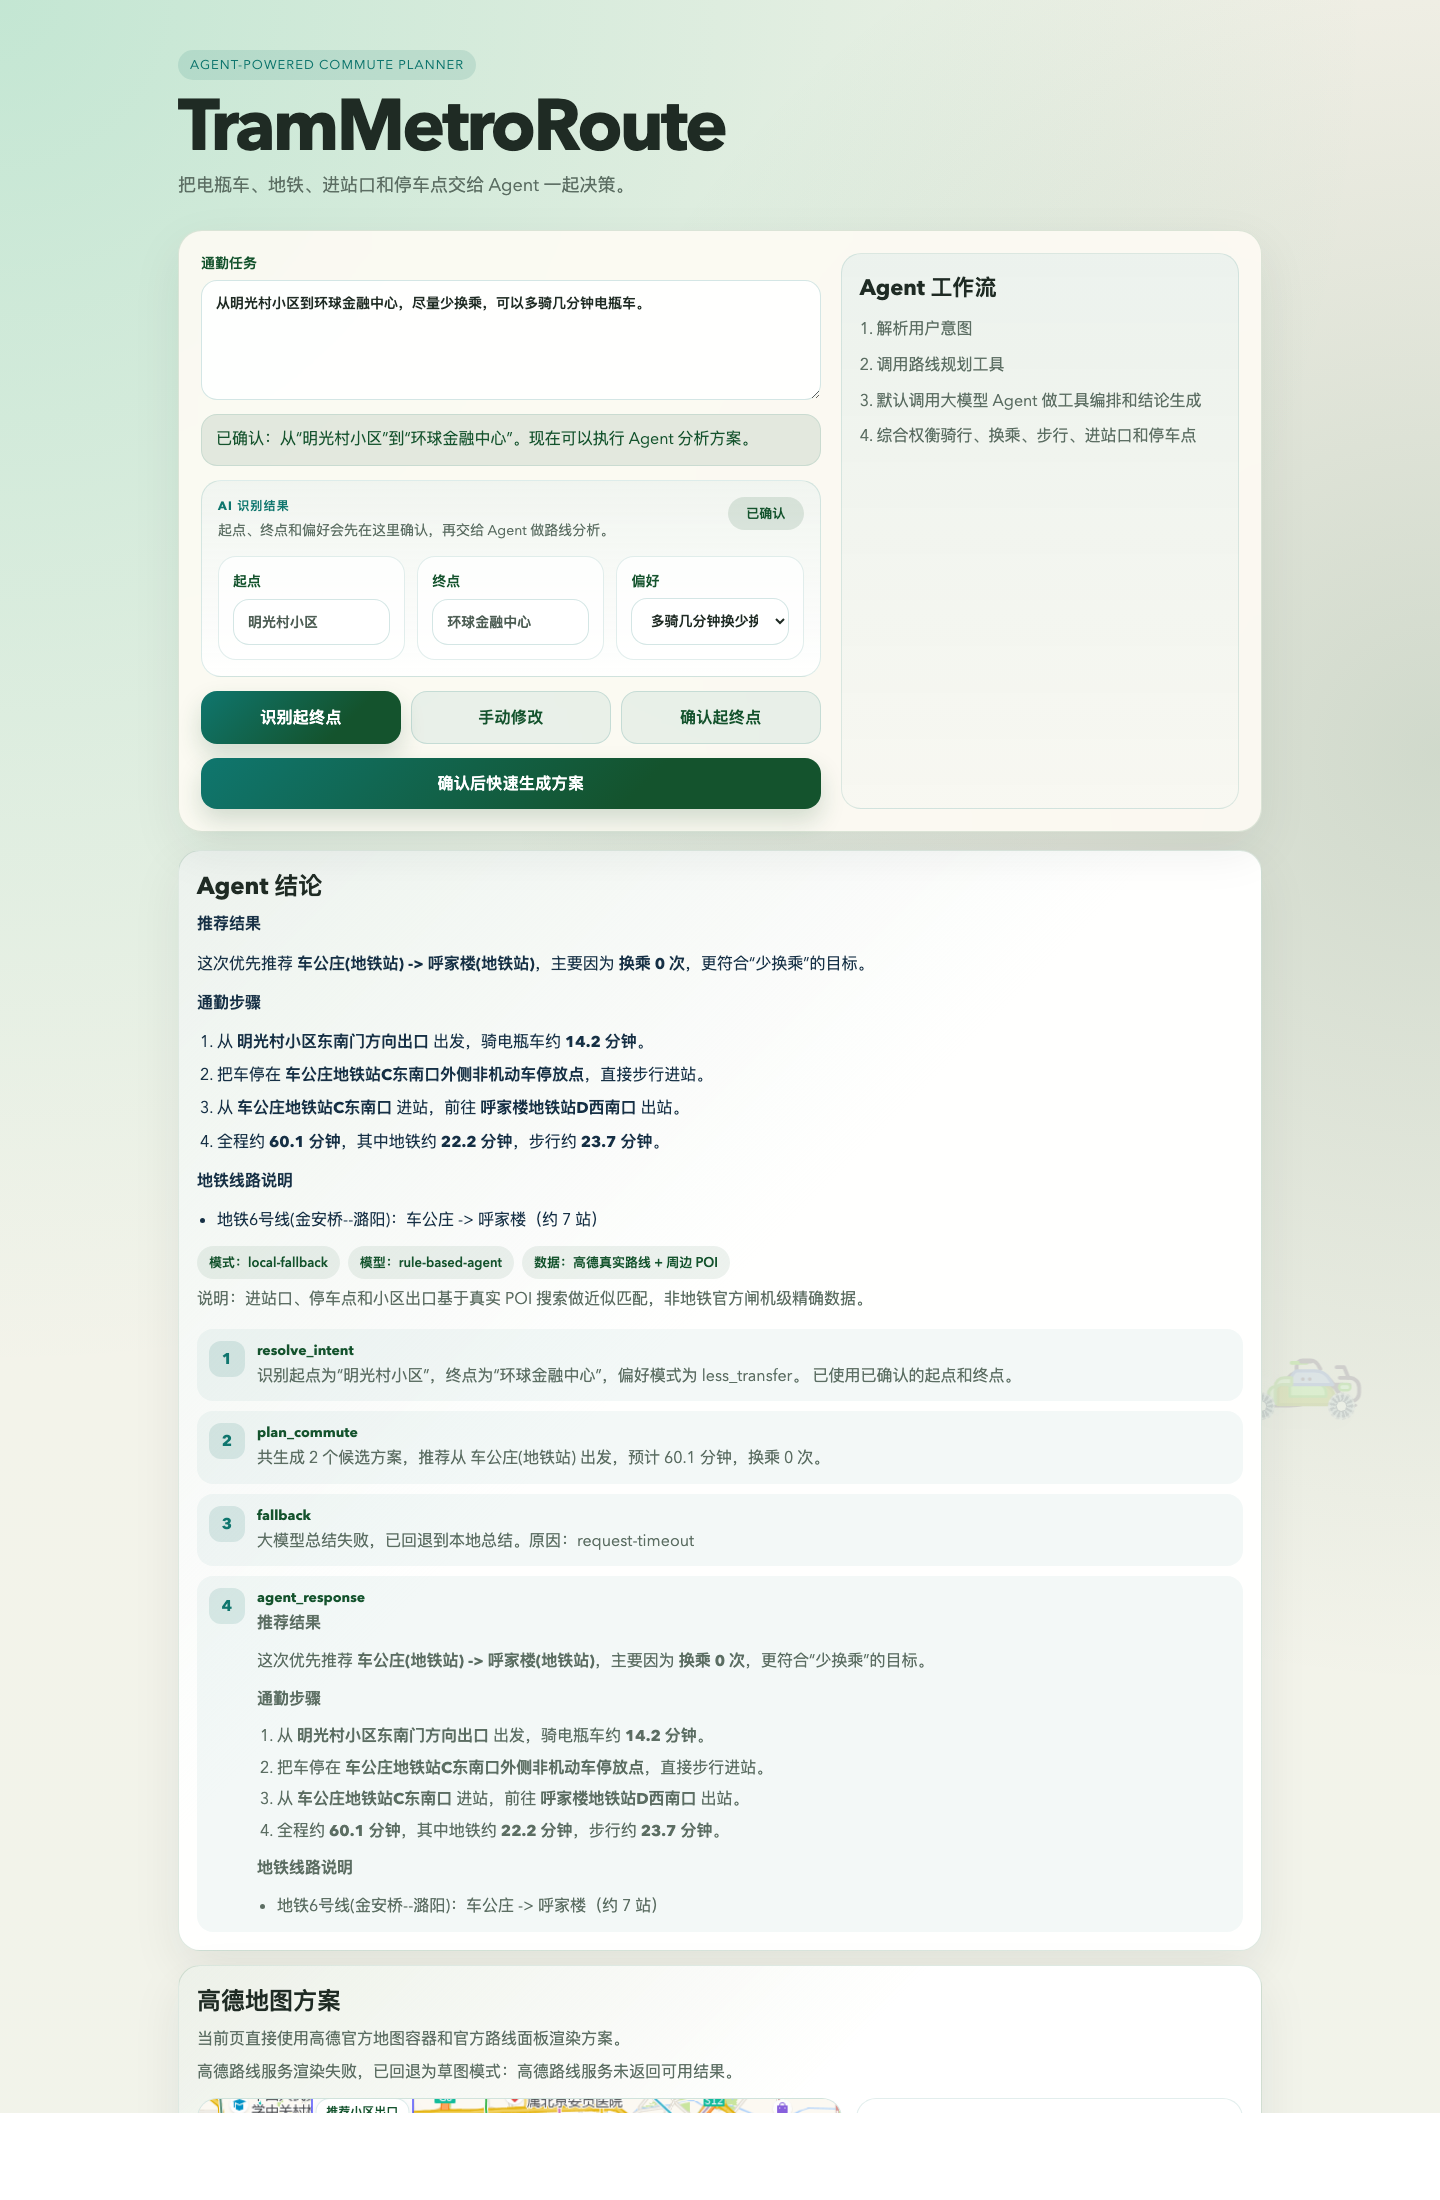
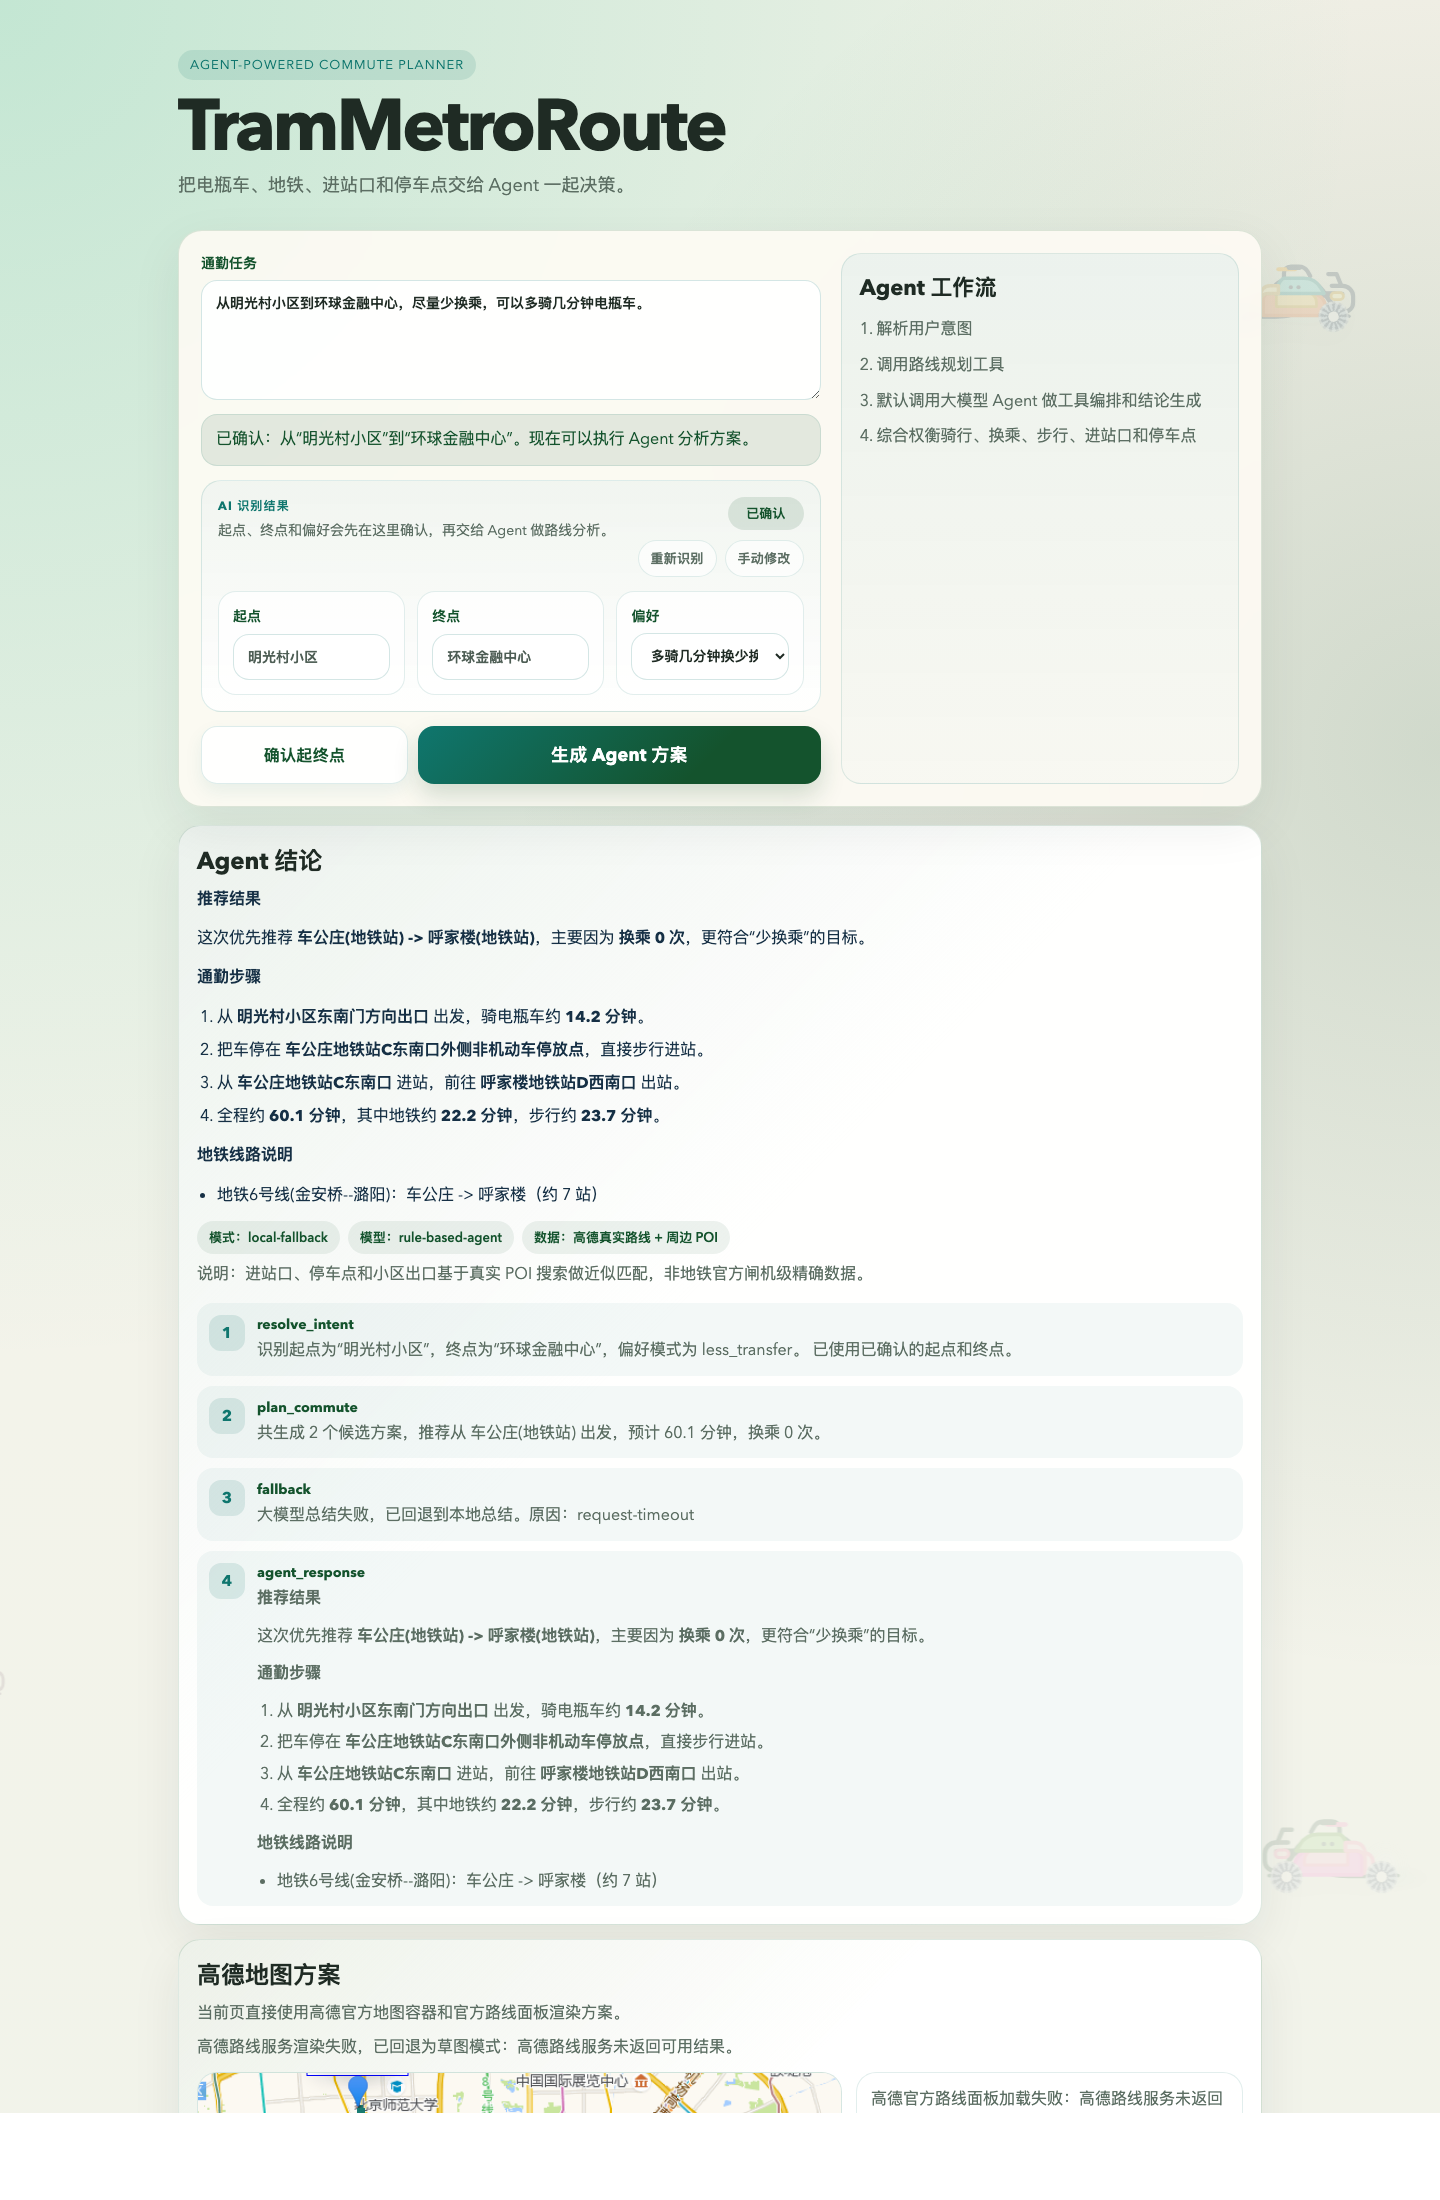
Refine planner actions and refresh README screenshot

diff --git a/public/styles.css b/public/styles.css
@@ -282,25 +282,72 @@ button {
   letter-spacing: 0.02em;
   cursor: pointer;
   box-shadow: 0 12px 24px rgba(20, 83, 45, 0.18);
+  transition:
+    transform 180ms ease,
+    box-shadow 180ms ease,
+    background 180ms ease,
+    border-color 180ms ease,
+    color 180ms ease;
+}
+
+button:hover:not(:disabled) {
+  transform: translateY(-1px);
+  box-shadow: 0 16px 28px rgba(20, 83, 45, 0.2);
 }
 
 button:disabled {
   cursor: not-allowed;
   opacity: 0.5;
   box-shadow: none;
+  transform: none;
 }
 
 .secondary-button {
-  background: rgba(15, 118, 110, 0.08);
+  background: rgba(255, 255, 255, 0.9);
   color: var(--accent-strong);
-  border: 1px solid rgba(15, 118, 110, 0.16);
-  box-shadow: none;
+  border: 1px solid rgba(15, 118, 110, 0.14);
+  box-shadow: 0 8px 18px rgba(15, 118, 110, 0.08);
 }
 
 .action-row {
   display: grid;
-  grid-template-columns: repeat(3, minmax(0, 1fr));
+  grid-template-columns: repeat(2, minmax(0, 1fr));
   gap: 10px;
+  align-items: center;
+}
+
+.action-row-primary {
+  grid-template-columns: minmax(180px, 0.72fr) minmax(0, 1.4fr);
+}
+
+#submitButton {
+  min-height: 58px;
+  font-size: 18px;
+  letter-spacing: 0.01em;
+}
+
+#confirmButton {
+  min-height: 58px;
+}
+
+.ghost-button {
+  width: auto;
+  min-width: auto;
+  padding: 8px 12px;
+  border: 1px solid rgba(15, 118, 110, 0.12);
+  border-radius: 999px;
+  background: rgba(255, 255, 255, 0.62);
+  color: var(--muted);
+  box-shadow: none;
+  font-size: 13px;
+  font-weight: 600;
+}
+
+.ghost-button:hover:not(:disabled) {
+  color: var(--accent-strong);
+  border-color: rgba(15, 118, 110, 0.2);
+  background: rgba(255, 255, 255, 0.9);
+  box-shadow: 0 10px 18px rgba(15, 118, 110, 0.08);
 }
 
 .intent-status {
@@ -350,6 +397,12 @@ button:disabled {
   gap: 12px;
 }
 
+.intent-shell-meta {
+  display: grid;
+  justify-items: end;
+  gap: 10px;
+}
+
 .intent-shell-kicker {
   font-size: 12px;
   font-weight: 700;
@@ -377,6 +430,13 @@ button:disabled {
   font-size: 13px;
   font-weight: 700;
   white-space: nowrap;
+}
+
+.intent-inline-actions {
+  display: flex;
+  flex-wrap: wrap;
+  justify-content: flex-end;
+  gap: 8px;
 }
 
 .intent-badge[data-tone="ready"] {
@@ -866,6 +926,10 @@ button:disabled {
     grid-template-columns: 1fr;
   }
 
+  .action-row-primary {
+    grid-template-columns: 1fr;
+  }
+
   .intent-grid {
     grid-template-columns: 1fr;
   }
@@ -897,6 +961,15 @@ button:disabled {
 
   .intent-shell-head {
     flex-direction: column;
+  }
+
+  .intent-shell-meta {
+    width: 100%;
+    justify-items: start;
+  }
+
+  .intent-inline-actions {
+    justify-content: flex-start;
   }
 }
 

diff --git a/public/index.html b/public/index.html
@@ -41,7 +41,13 @@
                 <div class="intent-shell-kicker">AI 识别结果</div>
                 <div class="intent-shell-copy">起点、终点和偏好会先在这里确认，再交给 Agent 做路线分析。</div>
               </div>
-              <span id="intentBadge" class="intent-badge">待识别</span>
+              <div class="intent-shell-meta">
+                <span id="intentBadge" class="intent-badge">待识别</span>
+                <div class="intent-inline-actions">
+                  <button id="detectButton" type="button" class="ghost-button">重新识别</button>
+                  <button id="editButton" type="button" class="ghost-button">手动修改</button>
+                </div>
+              </div>
             </div>
             <div class="intent-grid">
               <label class="intent-field">
@@ -64,12 +70,10 @@
               </label>
             </div>
           </section>
-          <div class="action-row">
-            <button id="detectButton" type="button">识别起终点</button>
-            <button id="editButton" type="button" class="secondary-button">手动修改</button>
+          <div class="action-row action-row-primary">
             <button id="confirmButton" type="button" class="secondary-button">确认起终点</button>
+            <button id="submitButton" type="submit" disabled>生成 Agent 方案</button>
           </div>
-          <button id="submitButton" type="submit" disabled>确认后快速生成方案</button>
         </form>
 
         <aside class="agent-note">
